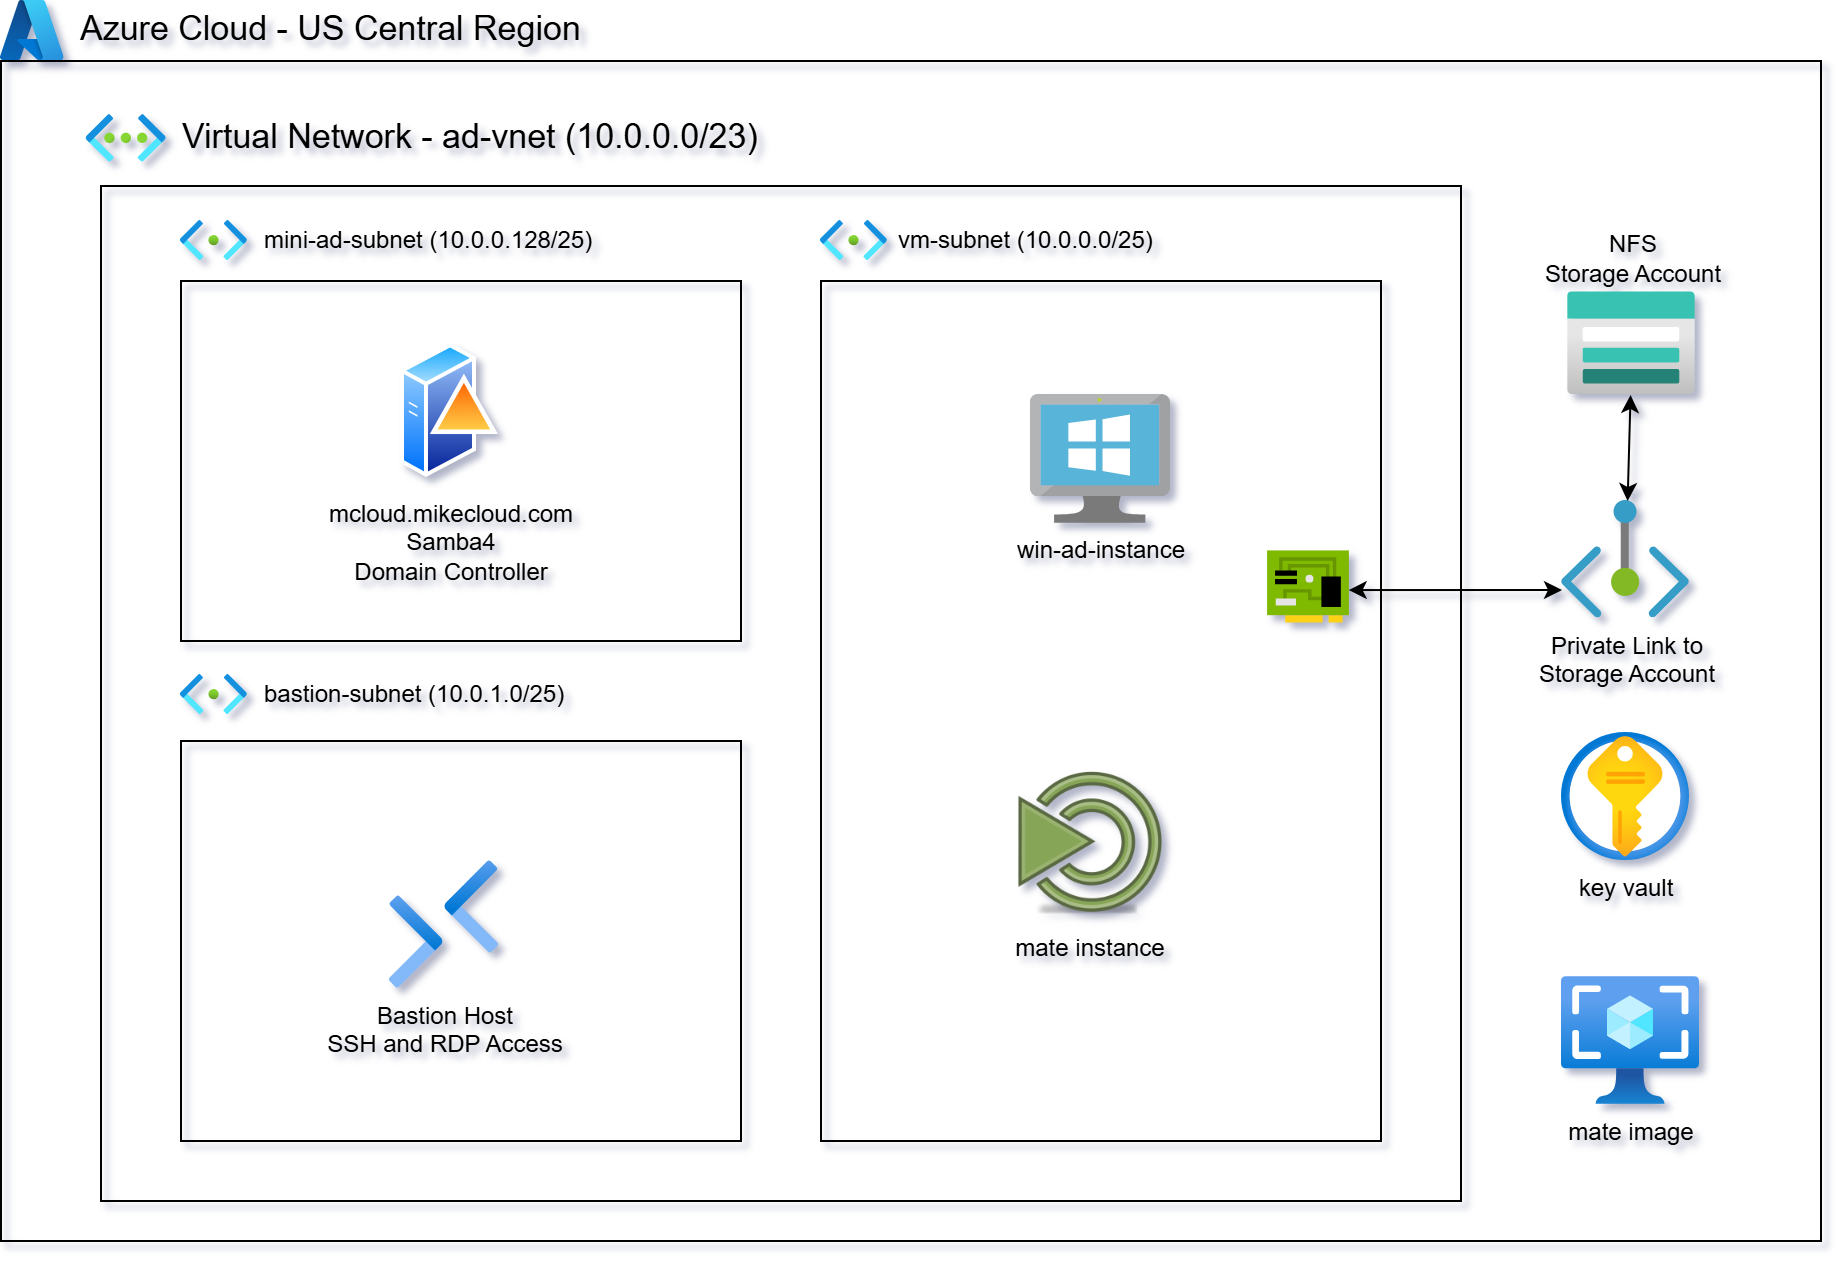
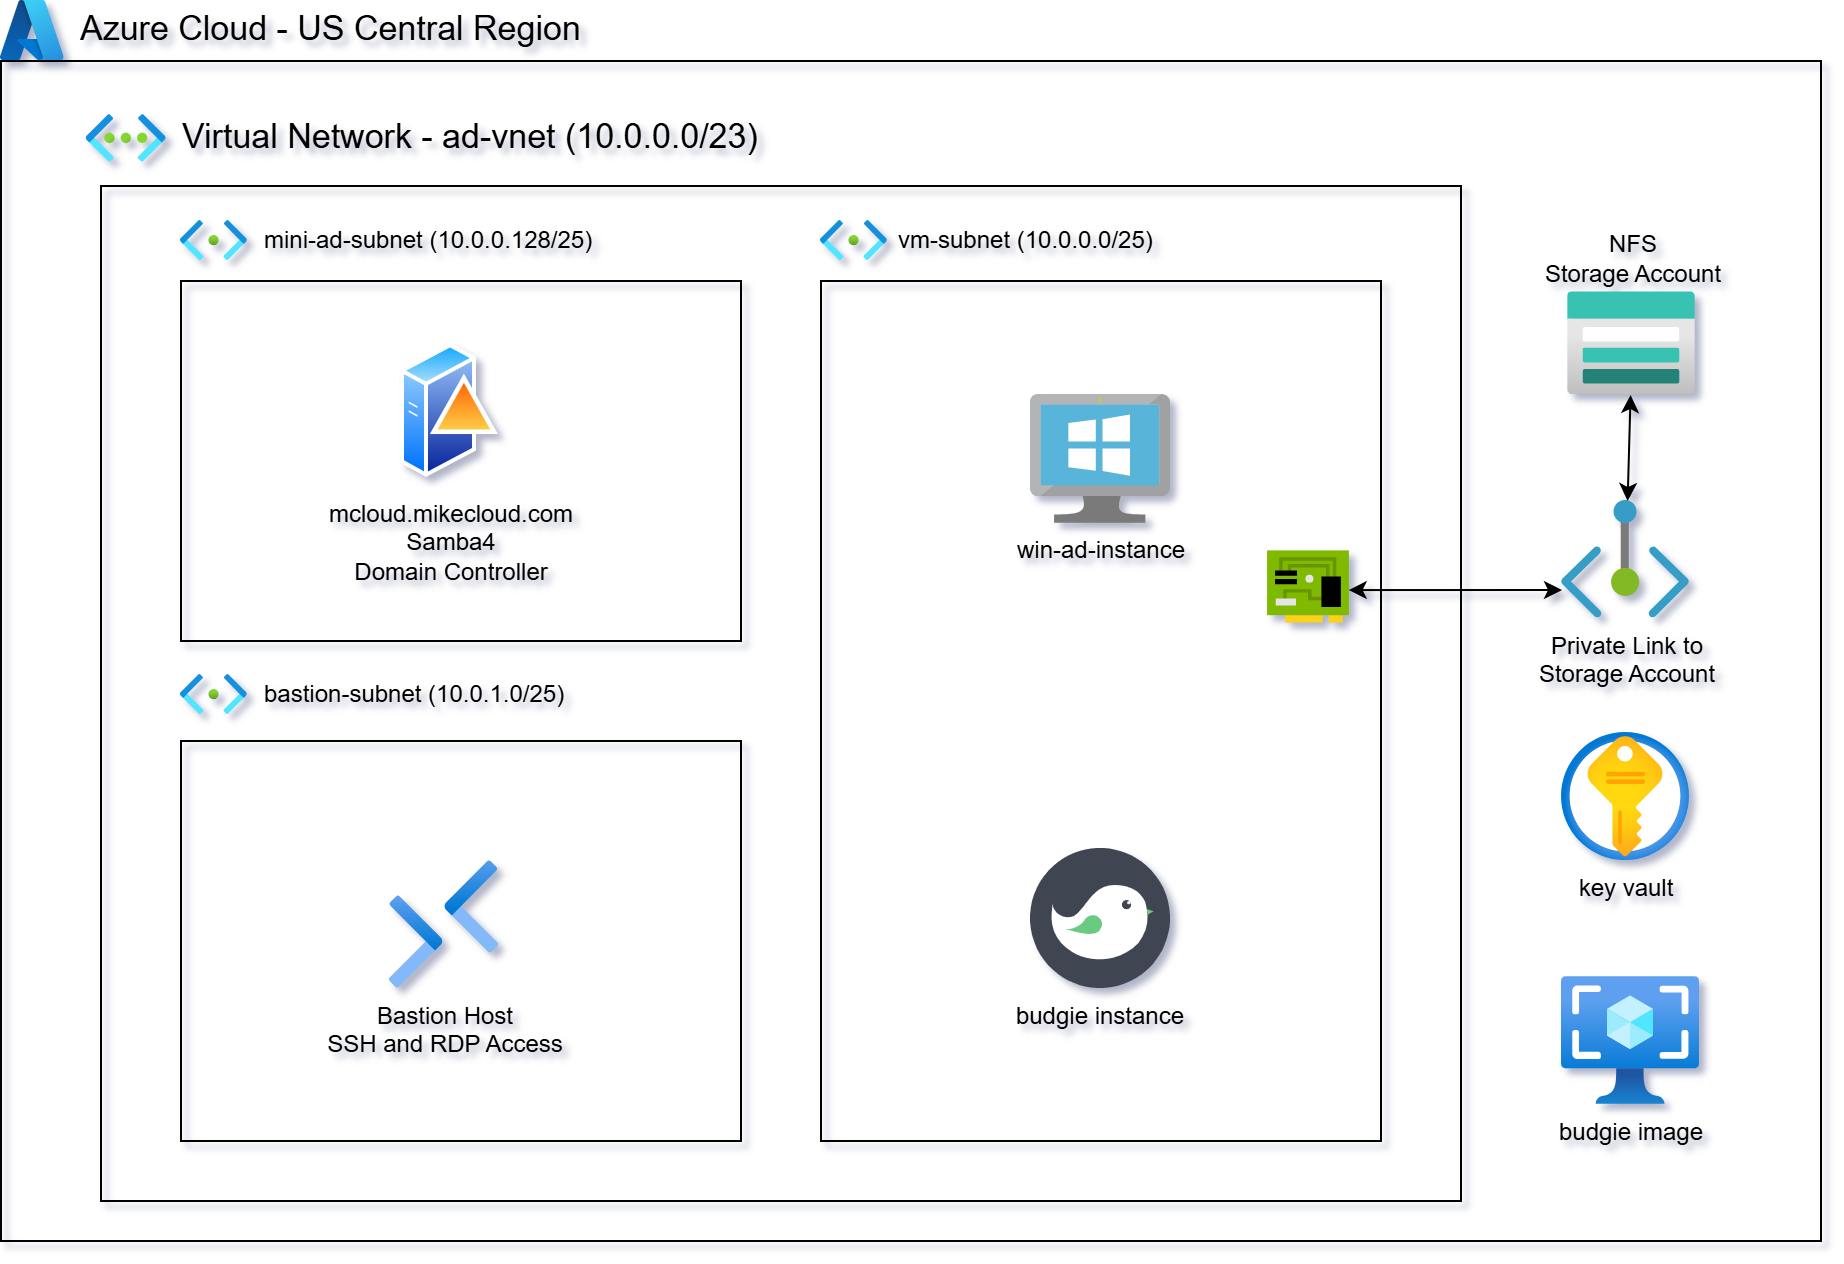
work on documentation

Changed region(s): [[0.5255, 0.5862, 0.6491, 0.8331], [0.8346, 0.8948, 0.9273, 0.9256]]

diff --git a/README.md b/README.md
@@ -1,7 +1,7 @@
-# Azure MATE XRDP Cloud Development Environment
+# Azure Budgie XRDP Cloud Development Environment
 
 This project provides a **complete cloud-based Linux desktop development environment**
-powered by **MATE + XRDP**, **Mini-Active Directory**, and **Azure Files (NFS)** on
+powered by **Budgie + XRDP**, **Mini-Active Directory**, and **Azure Files (NFS)** on
 the Microsoft Azure platform.
 
 It is designed as a **universal dev workstation** that contains the full superset of
@@ -12,11 +12,11 @@ tools, dependencies, and configurations used across all build projects on my cha
 Instead of manually configuring a workstation for each tutorial, demo, or cloud
 project, this solution automatically provisions:
 
-1. **A Custom MATE XRDP Azure Image (Packer)**
+1. **A Custom Budgie XRDP Azure Image (Packer)**
    - Preloaded with Chrome, Firefox (deb), VS Code, Docker, KRDC, Postman
    - Includes all development tooling used across channel projects:
      **Packer, Terraform, Docker CLI, Azure CLI, AWS CLI v2, Google Cloud CLI**
-   - Snap-free, clean, lightweight MATE desktop
+   - Snap-free, clean, lightweight Budgie desktop
    - XRDP fully configured with all fixes, enhancements, and defaults
    - Desktop/panel icons, terminal emulator defaults, and `/etc/skel` customizations
 
@@ -25,8 +25,8 @@ project, this solution automatically provisions:
    - Domain users generated from a template with friendly passwords
    - Central authentication for Linux and Windows clients
 
-3. **Domain-Joined MATE XRDP VM (Terraform)**
-   - Deploys the MATE XRDP instance using the Packer-built Azure Managed Image
+3. **Domain-Joined Budgie XRDP VM (Terraform)**
+   - Deploys the Budgie XRDP instance using the Packer-built Azure Managed Image
    - Automatically joins the Mini-AD domain during boot
    - Ensures consistent user profiles and default settings through `/etc/skel`
 
@@ -39,7 +39,7 @@ The result is a **disposable, reproducible, cloud-hosted Linux workstation** tha
 can be used for **any build, automation, or cloud project**
 featured on the channel.
 
-![Azure diagram](azure-mate.png)
+![Azure diagram](azure-budgie.png)
 
 
 ## Prerequisites
@@ -55,8 +55,8 @@ If this is your first time watching our content, we recommend starting with this
 ## Download this Repository
 
 ```bash
-git clone https://github.com/mamonaco1973/azure-mate-xrdp.git
-cd azure-mate-xrdp
+git clone https://github.com/mamonaco1973/azure-budgie-xrdp.git
+cd azure-budgie-xrdp
 ```
 
 
@@ -65,7 +65,7 @@ cd azure-mate-xrdp
 Run [check_env](check_env.sh) to validate your environment, then run [apply](apply.sh) to provision the infrastructure.
 
 ```bash
-azureuser@devel~/azure-mate-xrdp$ ./apply.sh
+azureuser@devel~/azure-budgie-xrdp$ ./apply.sh
 NOTE: Validating that required commands are found in your PATH.
 NOTE: az is found in the current PATH.
 NOTE: terraform is found in the current PATH.
@@ -98,7 +98,7 @@ When the deployment completes, the following resources are created:
   - A dedicated Azure Virtual Network with public and private subnets  
   - Public IPs and optionally Bastion for secure management access  
   - Route tables and NSGs configured to support AD, Azure Files (NFS),  
-    and the MATE XRDP VM  
+    and the Budgie XRDP VM  
 
 - **Security & Identity:**  
   - Network Security Groups for the domain controller, Linux desktop VM,  
@@ -119,11 +119,11 @@ When the deployment completes, the following resources are created:
 - **Azure Files (Premium NFS):**  
   - Premium FileStorage account with NFS 4.1 shares  
   - Private endpoints and NSGs allowing NFS traffic (TCP/2049) from XRDP VMs  
-  - Serves as centralized home directory storage for MATE desktop users  
+  - Serves as centralized home directory storage for Budgie desktop users  
 
-- **Packer-Built MATE XRDP Image:**  
+- **Packer-Built Budgie XRDP Image:**  
   - Custom Azure Managed Image containing:  
-    - MATE (LXqt), XRDP, Chrome, Firefox (deb), VS Code  
+    - Budgie Desktop, XRDP, Chrome, Firefox (deb), VS Code  
     - Development tools: **Packer, Terraform, Docker CLI, Azure CLI,  
       AWS CLI v2, Google Cloud CLI**  
     - KRDC, Postman, and all channel-wide tooling  
@@ -132,7 +132,7 @@ When the deployment completes, the following resources are created:
   - All XRDP fixes applied (session startup, untrusted launcher behavior,  
     consistent terminal defaults, etc.)  
 
-- **MATE XRDP Desktop VM:**  
+- **Budgie XRDP Desktop VM:**  
   - Azure VM deployed from the custom Managed Image  
   - Automatically joins the Mini-AD domain during cloud-init  
   - Home directories mounted from Azure Files (NFS 4.1)  
@@ -147,7 +147,7 @@ When the deployment completes, the following resources are created:
 
 ### Users and Groups
 
-As part of this project, when the domain controller is provisioned, a set of sample **users** and **groups** are automatically created through Terraform-provisioned scripts running on the mini-ad server. These resources are intended for **testing and demonstration purposes**, showcasing how to automate user and group provisioning in a self-managed Active Directory environment.
+As part of this project, when the domain controller is provisioned, a set of sample **users** and **groups** are automatically created through Terraform-provisioned scripts running on the mini-ad server. These resources are intended for **testing and demonstration purposes**, showcasing how to autobudgie user and group provisioning in a self-managed Active Directory environment.
 
 
 #### Groups Created
@@ -204,7 +204,7 @@ Follow these steps to provision a new user in the Active Directory domain and va
    - Open **PowerShell** on the AD server.  
    - Run the script located at:  
      ```powershell
-     Z:\azure-mate-xrdp\04-utils\getNextUID.bat
+     Z:\azure-budgie-xrdp\04-utils\getNextUID.bat
      ```  
    - This script returns the next available **`uidNumber`** to assign to the new account.  
 
@@ -222,7 +222,7 @@ Follow these steps to provision a new user in the Active Directory domain and va
      - **us** (or other geographic/departmental group as applicable).  
 
 8. **Validate User on Linux**  
-   - Open an **AWS Systems Manager (SSM)** session to the **`mate-instance`** instance.  
+   - Open an **AWS Systems Manager (SSM)** session to the **`budgie-instance`** instance.  
    - Run the following command to confirm the user’s identity mapping:  
      ```bash
      id mcloud
@@ -245,4 +245,4 @@ When you are finished testing, you can remove all provisioned resources with:
 ./destroy.sh
 ```
 
-This will remove all Azure resources created by the project — including the resource group, virtual network, subnets, network security groups, public IPs, NICs, the MATE VM, and any supporting infrastructure. Secrets stored in Azure Key Vault will also be deleted unless a retention policy prevents their removal.
+This will remove all Azure resources created by the project — including the resource group, virtual network, subnets, network security groups, public IPs, NICs, the Budgie VM, and any supporting infrastructure. Secrets stored in Azure Key Vault will also be deleted unless a retention policy prevents their removal.
